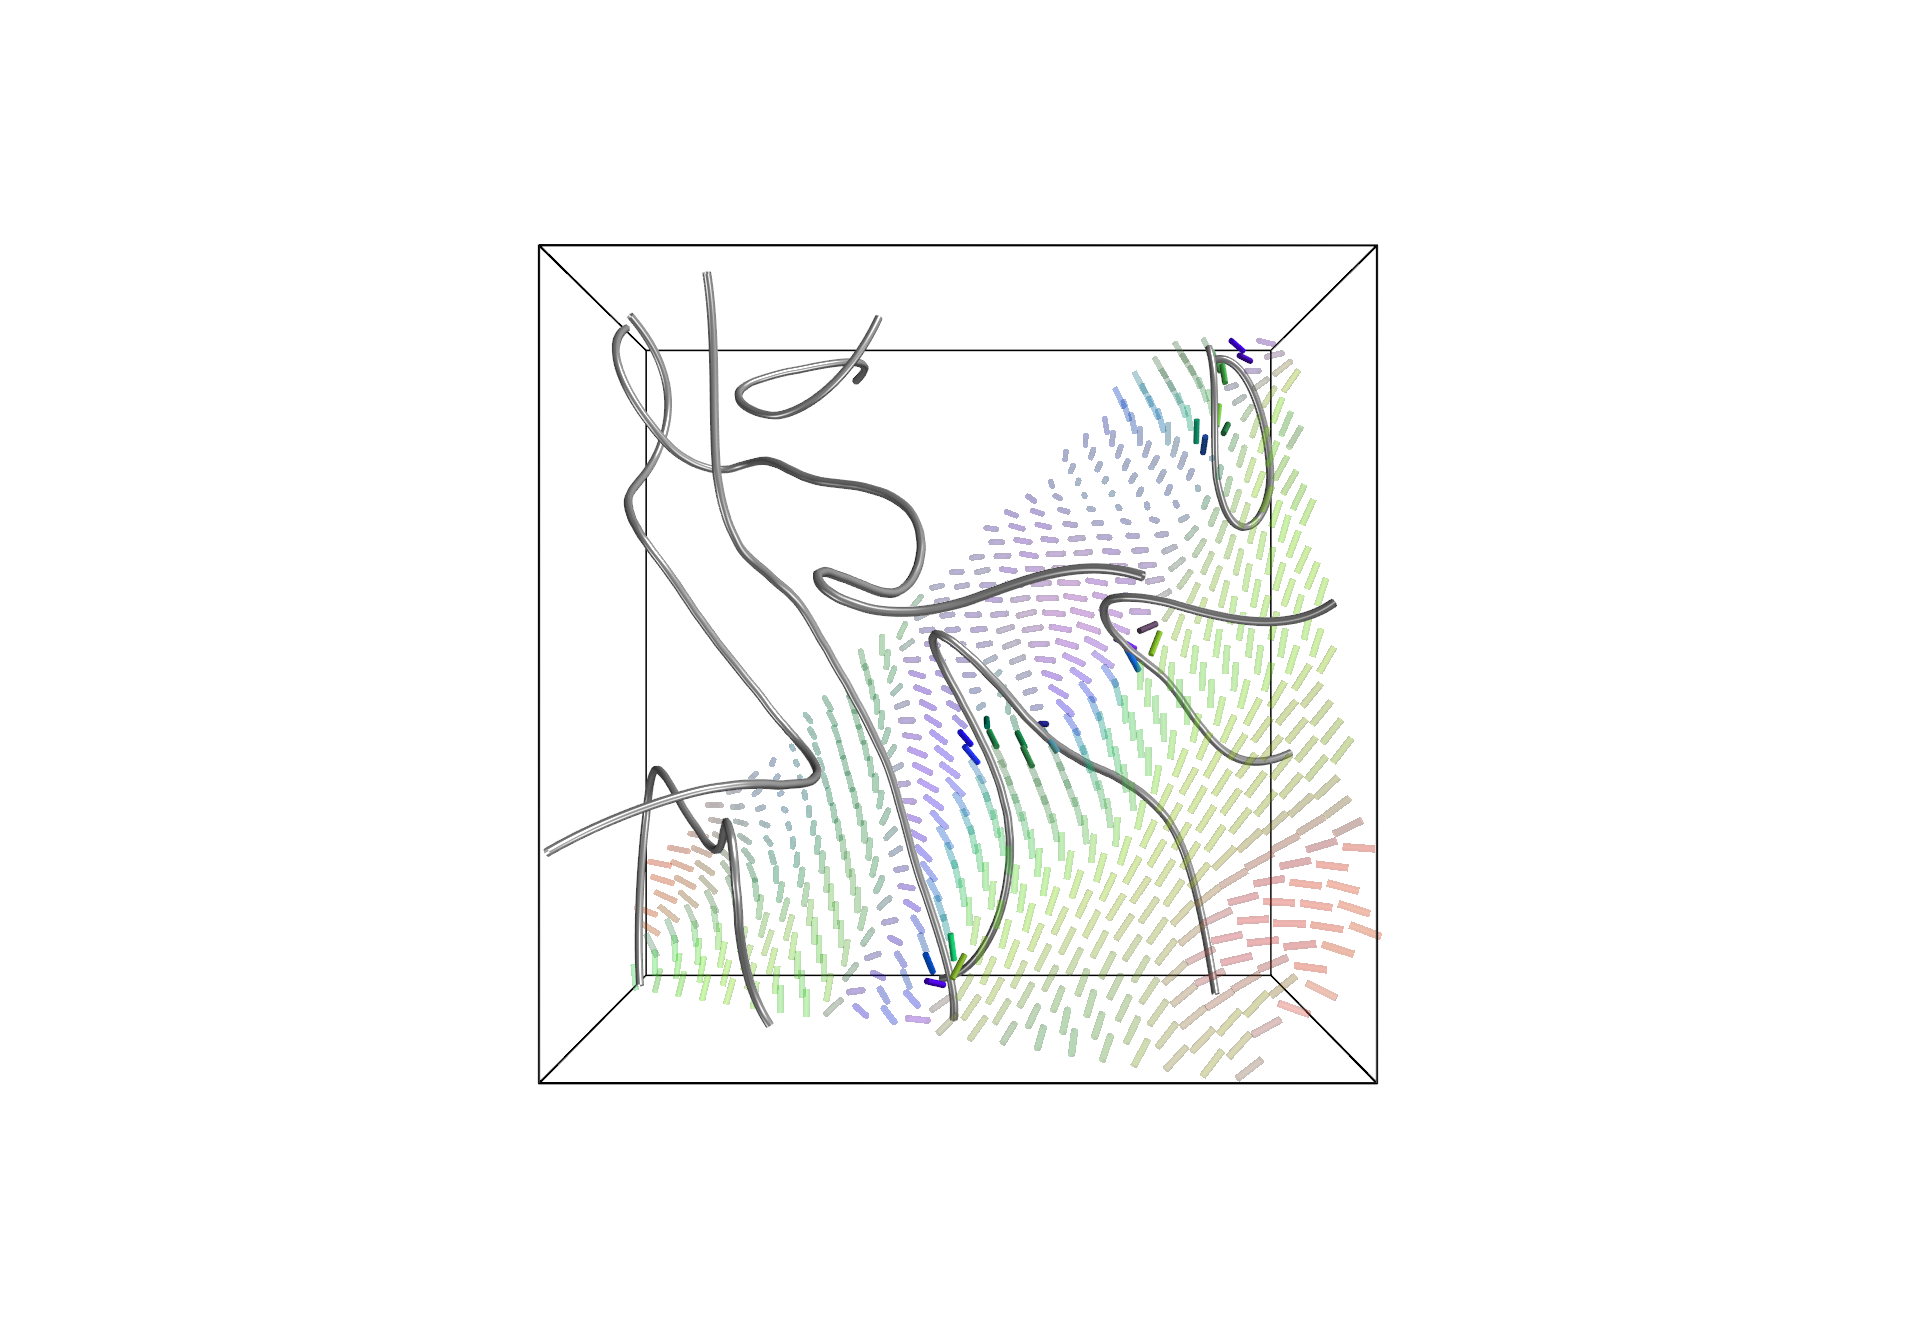
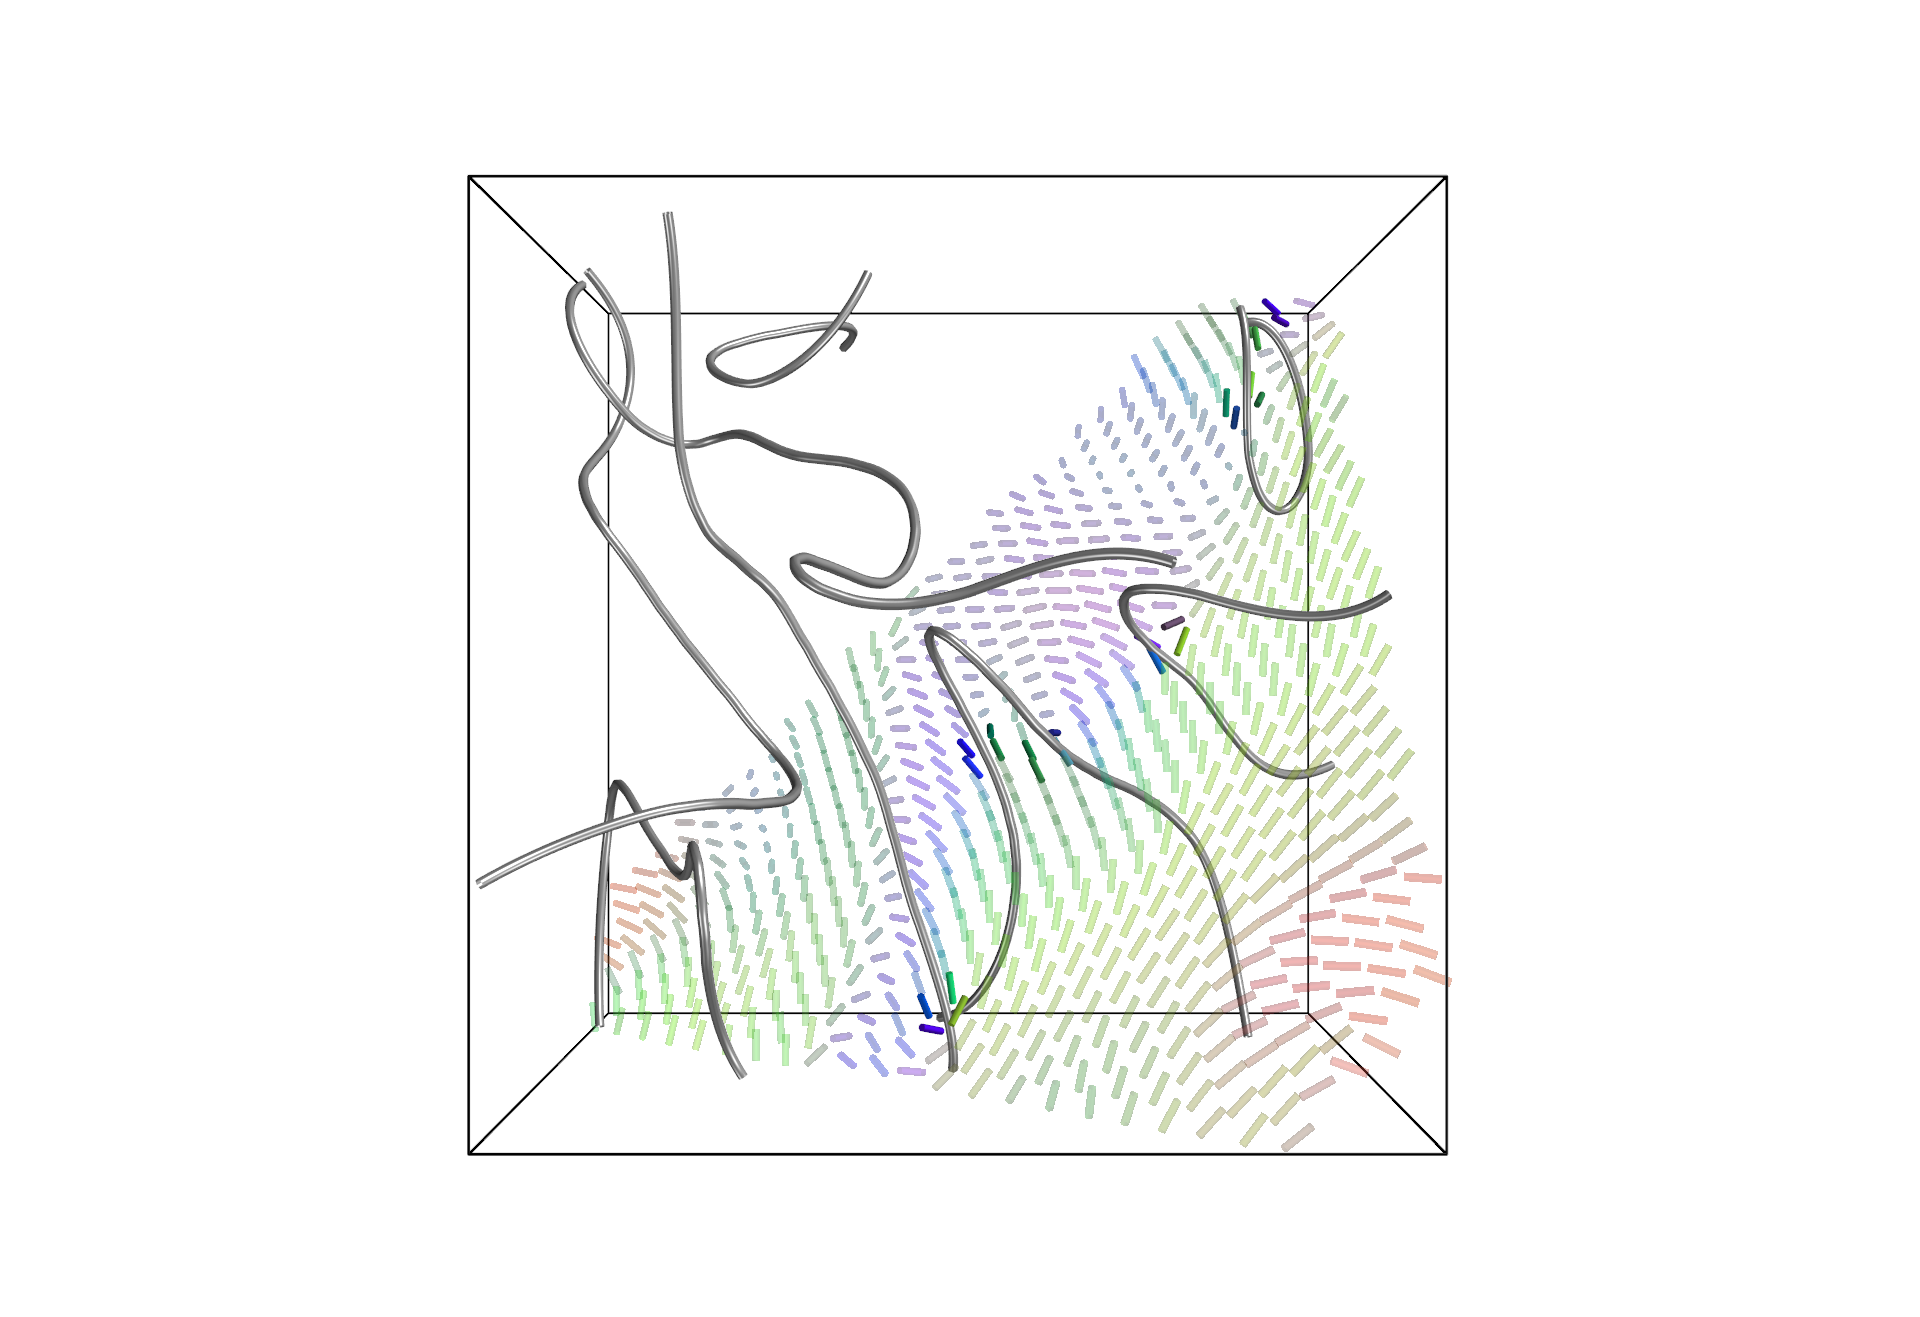
update

Changed region(s): [[0.25, 0.1557, 0.75, 0.9028], [0.7188, 0.1245, 0.75, 0.1557], [0.25, 0.1245, 0.2812, 0.1557]]

diff --git a/classes/visual_mayavi/plot_n_plane.py b/classes/visual_mayavi/plot_n_plane.py
@@ -181,8 +181,6 @@ class PlotnPlane:
         radius = opts_nPlane.radius
 
         if is_n_defect:
-            
-            print(opts_nPlane.is_n_defect)
 
             axis_both = np.array(
                 [
@@ -350,18 +348,20 @@ class PlotnPlane:
         self._entities[0].parent.parent.data.point_data.scalars.modified()
 
     @property
-    def opts_opacity_defect(self):
+    @logging_and_warning_decorator
+    def opts_opacity_defect(self, logger=None):
         if self.opts_is_n_defect:
             if len(self._entities) > 1:
                 rgba = self._entities[1].parent.parent.data.point_data.scalars
                 return np.array(rgba)[:, 3] / 255
             else:
-                raise ValueError("There are no directors around defects")
+                logger.info("There are no directors around defects")
         else:
-            raise ValueError("Directors around defects are not plotted seperately")
-
+            logger.info("There are no directors around defects")
+    
     @opts_opacity_defect.setter
-    def opts_opacity_defect(self, data):
+    @logging_and_warning_decorator
+    def opts_opacity_defect(self, data, logger=None):
         if self.opts_is_n_defect:
             if len(self._entities) > 1:
                 self._calc_opacity_func = self._helper_opacity_check(data)
@@ -374,9 +374,9 @@ class PlotnPlane:
                     self._entities[1].parent.parent.data.point_data.scalars[i] = rgba[i]
                 self._entities[1].parent.parent.data.point_data.scalars.modified()
             else:
-                raise ValueError("There are no directors around defects")
+                logger.info("There are no directors around defects")
         else:
-            raise ValueError("There are no isolated directors around defects")
+            logger.info("There are no directors around defects")
 
     @property
     def opts_colors(self):
@@ -389,7 +389,7 @@ class PlotnPlane:
         return result
 
     @opts_colors.setter
-    def opts_colors(self, data):
+    def opts_colors(self, data, logger=None):
         self._calc_colors_func = self._helper_colors_check(data)
 
         def set_color(index):

diff --git a/classes/Q_field_object.py b/classes/Q_field_object.py
@@ -353,6 +353,7 @@ class QFieldObject:
         if is_extent:
             extent = PlotExtent(opts_extent)
             figure.add_object(extent, category="extent")
+            figure.scene.distance = opts_scene.distance
 
     @logging_and_warning_decorator()
     def act_visualize_n_in_Q(
@@ -412,14 +413,15 @@ class QFieldObject:
         if is_extent:
             extent = PlotExtent(opts_extent)
             figure.add_object(extent, category="extent")
+            figure.scene.distance = opts_scene.distance
+
+        if opts_scene.distance != None:
+            figure.scene.distance = opts_scene.distance
 
     def act_add_scene(self, is_new=True, opts=OptsScene):
         figure = PlotScene(is_new=is_new, opts=opts)
         if is_new or (not is_new and len(self._calc_figures) == 0):
             self._calc_figures.append(figure)
-        else:
-            figure = self._calc_figures[-1]
-
         return figure
 
     def reset_figures(self):

diff --git a/datatypes.py b/datatypes.py
@@ -443,7 +443,7 @@ QField5 = np.ndarray
 QField9 = np.ndarray
 
 
-def as_QField9(qtensor: Union[QField5, QField9]) -> QField9:
+def as_QField9(qtensor: Union[QField5, QField9], name="QField") -> QField9:
     #! strict3d
     """
     Convert a Q-tensor field into full 3×3 matrix form (QField9).
@@ -473,7 +473,7 @@ def as_QField9(qtensor: Union[QField5, QField9]) -> QField9:
 
     if not np.issubdtype(qtensor.dtype, np.floating):
         raise TypeError(
-            f"QField must be a float-type NumPy array, got dtype {qtensor.dtype}"
+            f"QField must be a float-type NumPy array, got dtype {qtensor.dtype}. Name of QField: {name}"
         )
 
     shape = qtensor.shape
@@ -499,6 +499,7 @@ def as_QField9(qtensor: Union[QField5, QField9]) -> QField9:
     raise ValueError(
         "Invalid QField shape: expected (..., 5) or (..., 3, 3), "
         f"but got shape {shape}"
+        f"Name of QField: {name}"
     )
 
 

diff --git a/classes/visual_mayavi/plot_scene.py b/classes/visual_mayavi/plot_scene.py
@@ -99,7 +99,7 @@ class PlotScene:
         if opts.name is None:
             if not hasattr(self, "name"):
                 self.name = opts.name
-
+        
         self.scene._set_angles(
             opts.azimuth, opts.elevation, opts.roll, opts.distance, opts.focal_point
         )
@@ -231,8 +231,8 @@ class PlotScene:
             log_scene_params()
             for category, objs in self.objects.items():
                 for obj in objs:
-                    # Each object has its own print function
-                    # We capture its printed text into logger
+                    # Each object has its own log function
+                    # We capture its logged text into logger
                     obj.log_properties(logger=logger)
 
         elif mode in self.objects:

diff --git a/example/generare_figure_readme.py b/example/generare_figure_readme.py
@@ -83,7 +83,7 @@ Q.act_visualize_disclination_lines(line_color=(0.5, 0.5, 0.5), extent_radius=0.1
 trans = 7.5
 Q.act_visualize_n_in_Q(plane_normal=(1,1,1), plane_spacing=spacing, plane_size=100, plane_origin=(index_max/2-trans,index_max/2-trans,index_max/2-trans), 
                        n_length=spacing, n_opacity=0.2, n_radius=0.3, 
-                       scene_azimuth=90, scene_elevation=90, scene_distance=150,
+                       scene_azimuth=90, scene_elevation=90, scene_distance=190,
                        is_new=False, is_extent=False)
 Q.figs[3].save('figures/PlotnPlaneTilt.png')
 
